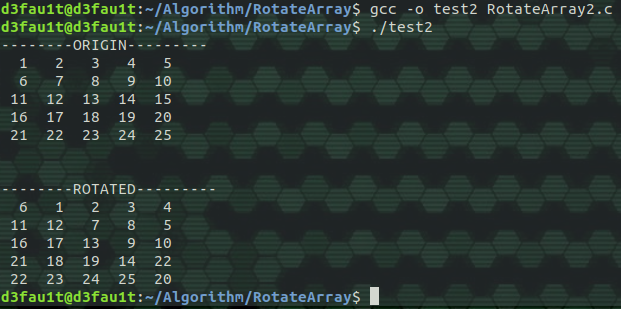
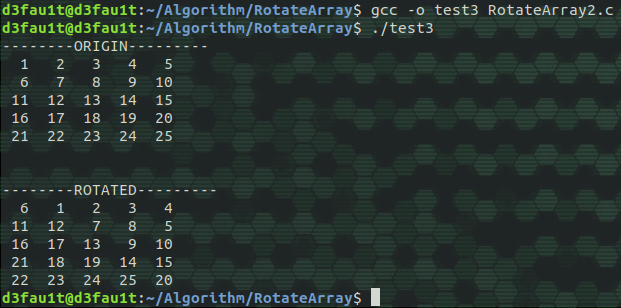
result update

diff --git a/RotateArray/RotateArray2.c b/RotateArray/RotateArray2.c
@@ -10,9 +10,9 @@
 // 7 : 11
 // 11 : 11
 
-#define COL 11 
-#define ROW 11
-#define FLAG 11
+#define COL 5 
+#define ROW 5
+#define FLAG 8
 int array[ROW][COL]={{0,}};
 
 int main(void)
